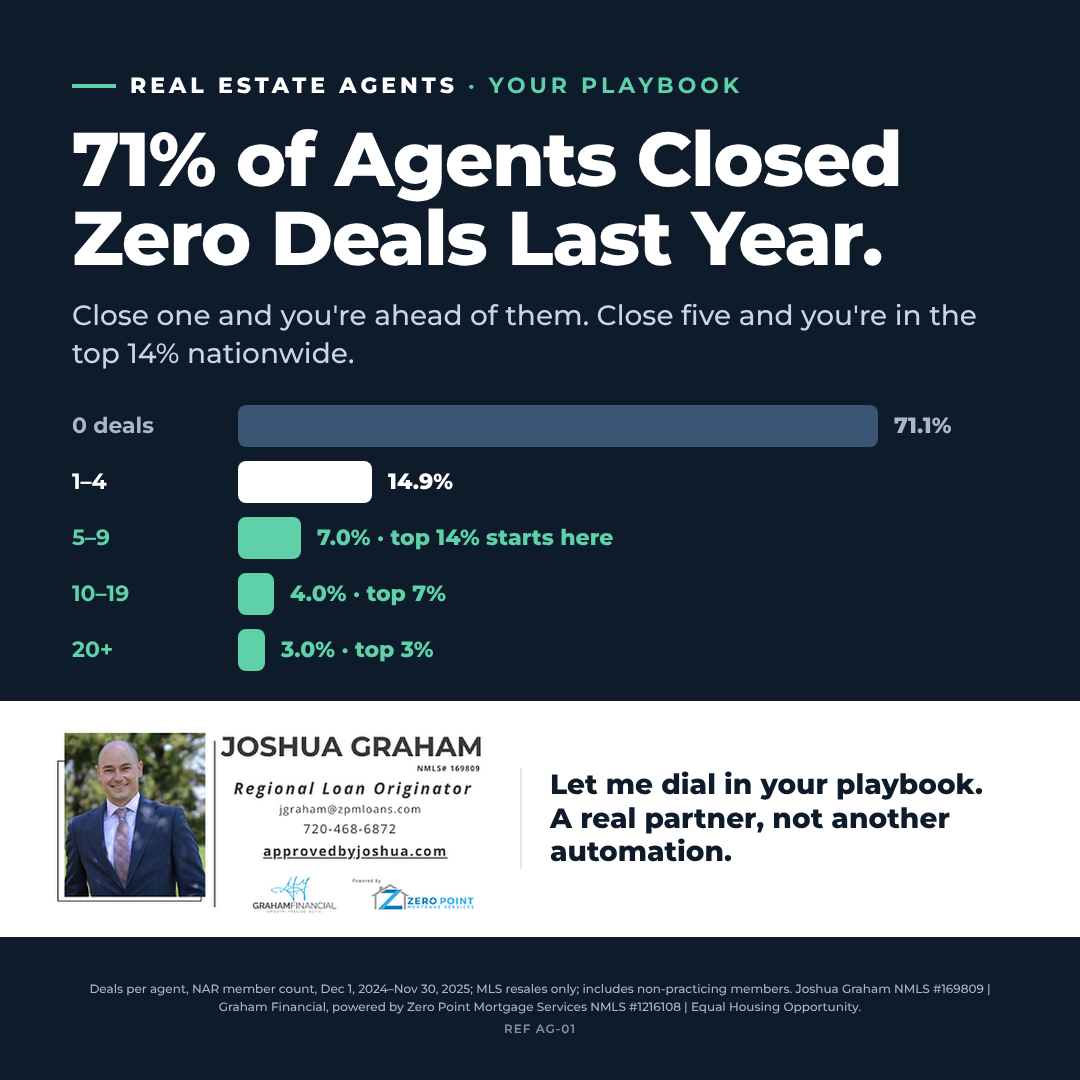
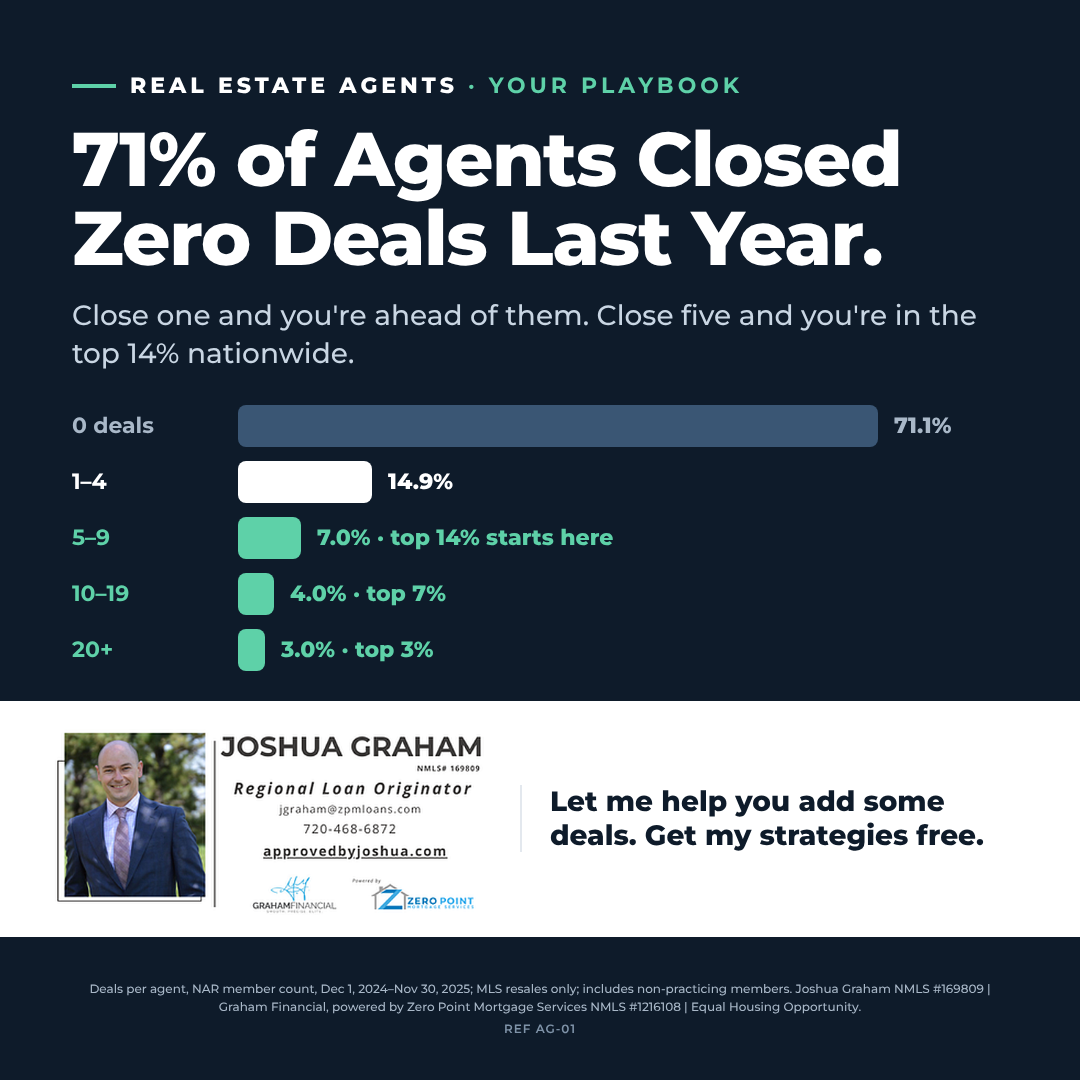
Save point: AG-01 CTA -> free agent strategies lead magnet, then Skool
Claude-Session: https://claude.ai/code/session_01HF5EFoWpB6dZDERsWsq2kx

Changed region(s): [[0.4889, 0.7028, 0.9167, 0.7944]]

diff --git a/src/smart-money/data.js b/src/smart-money/data.js
@@ -19,6 +19,7 @@ export const MAGNETS = {
   "equity-unlock": { name: "Equity Unlock Estimator", path: null, live: false },
   "portfolio-review": { name: "Portfolio Strategy Review (Show me how)", path: null, live: false },
   "fthb-class": { name: "First-Time Homebuyer Class", path: null, live: false },
+  "agent-strategy": { name: "Free Agent Deal Strategies (then Skool: Agents)", path: null, live: false },
 };
 
 export const SITE_BASE = "https://getunlocked-producer.vercel.app";
@@ -396,7 +397,7 @@ If you ever want details on a scenario, or just live rates, I'm a phone call, te
   {
     ref: "AG-01", bank: "agents", name: "Agent Playbook — 71% Closed Zero", lender: "N/A",
     audience: "agent", license: "none", flyer: "/smart-money/flyers/AG-01.png", footer: "intro",
-    painPoints: [], magnet: null, skool: "Agents",
+    painPoints: [], magnet: "agent-strategy", skool: "Agents",
     highlights: ["71% of agents closed zero deals", "5 deals = top 14%", "10 deals = top 7%", "Playbook + database partnership", "A real person, not automation"],
     notes: "Chart: NAR member count Dec 1, 2024–Nov 30, 2025, MLS resales only, includes non-practicing members — confirm original source before heavy use. Database/lead partnership offer: Joshua sending through ZPMS compliance.",
     short: `Real estate agents: take a good hard look at this chart.
@@ -407,7 +408,7 @@ Let me dial in your playbook. I'll partner with you, help work your database, an
 
 Not just access to smart money and intelligent financing. A real, live partner alongside you, not another automated drip.
 
-Want the playbook? Send me a message 👇`,
+Let me help you add some deals. Find out my strategies for free 👇`,
     long: `Agents, take a good hard look at this chart.
 
 71% of real estate agents closed zero deals last year. That means closing just one puts you ahead of most of the industry. Five deals and you're in the top 14% nationwide. Ten, and you're in the top 7%.
@@ -418,12 +419,12 @@ That's what I bring. Let me help you work your database, keep your relationships
 
 And it's a real, live person, not an automated drip campaign.
 
-Want to see the playbook? Send me a message and let's map it out.`,
+Let me help you add some deals. Find out my strategies for free, then join the community where I teach all of it 👇`,
     video: {
       title: "71% of agents closed zero deals. Here's how you get out of that group",
       hook: "One deal puts you ahead of 71% of agents. Five puts you in the top 14%.",
       points: ["What the deals-per-agent numbers actually show", "Why most agents stall: no playbook, no follow-up system", "How a lender partnership keeps your database warm and your deals closing"],
-      cta: "Send me a message and I'll walk you through the playbook.",
+      cta: "Grab my deal strategies free — link in the post.",
     },
   },
 ];
